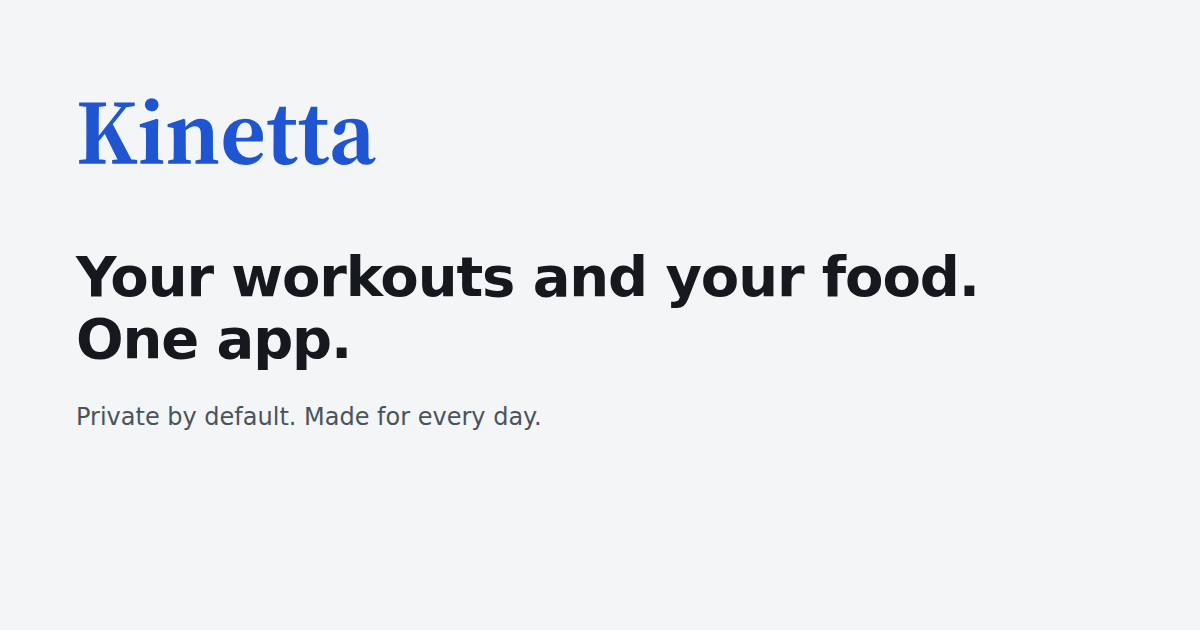
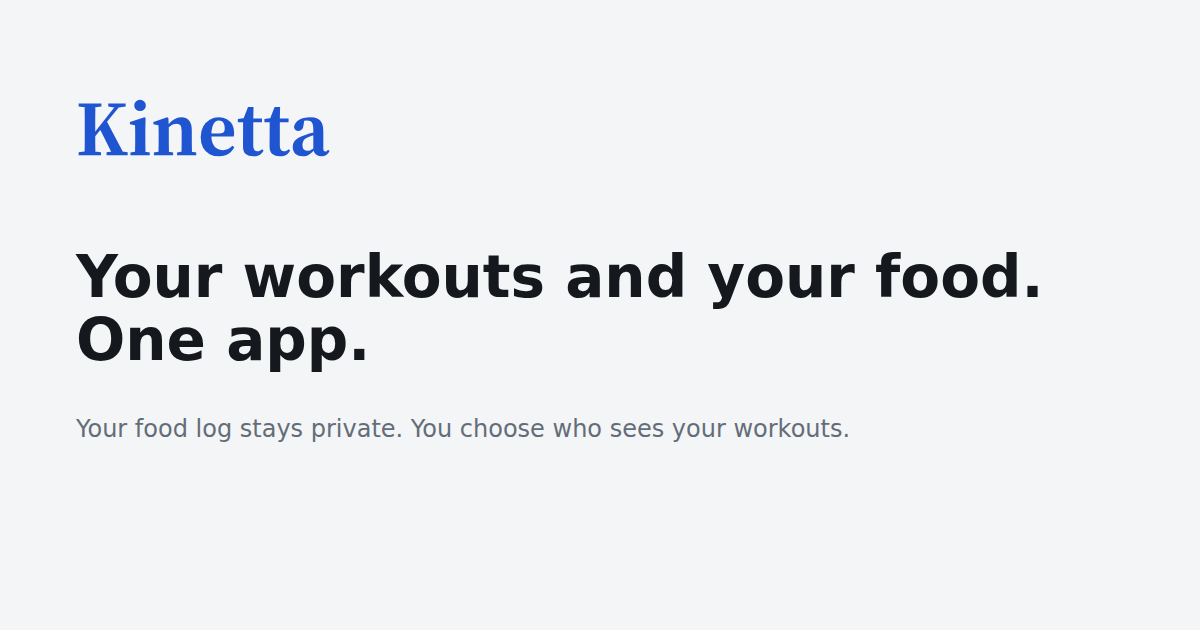
Website: Garmin Connect open to everyone; drop "Private by default" (#240)
Garmin Connect is now offered to every account, so Training no longer
says it is coming soon. New accounts share activities with everyone on
Kinetta by default, so the link-preview image and the Friends page say
the food log stays private and you choose who sees workouts instead.
Link-preview image version bumped to v5.

diff --git a/site/training.html b/site/training.html
@@ -10,7 +10,7 @@
 <meta property="og:type" content="website">
 <meta property="og:site_name" content="Kinetta">
 <meta property="og:url" content="https://kinetta.app/training">
-<meta property="og:image" content="https://kinetta.app/assets/og.png?v=4">
+<meta property="og:image" content="https://kinetta.app/assets/og.png?v=5">
 <meta property="og:image:type" content="image/png">
 <meta property="og:image:width" content="1200">
 <meta property="og:image:height" content="630">
@@ -61,12 +61,12 @@
       <div class="steps compact">
         <div class="step"><h3>Apple Health on iPhone</h3><p>In the Kinetta iPhone app, workouts sync from Apple Health, including Apple Watch routes. The app is in TestFlight beta for invited testers.</p></div>
         <div class="step"><h3>Watch files and Strava history</h3><p>Upload FIT, GPX or TCX files, or your whole Strava export.</p></div>
-        <div class="step"><h3>Connected sources</h3><p>Health Auto Export brings in new workouts automatically. Garmin Connect is coming soon.</p></div>
+        <div class="step"><h3>Connected sources</h3><p>Garmin Connect or Health Auto Export bring in new workouts automatically.</p></div>
       </div>
       <div class="works" aria-labelledby="works-h">
         <h3 id="works-h">Works with the watch you already wear.</h3>
         <p class="works-list">Apple Watch, Apple Health, Garmin Connect, Health Auto Export, Strava exports, and FIT, GPX or TCX files from almost any watch or bike computer.</p>
-        <p><strong>Garmin Connect</strong> brings each new run or ride in with its map and heart rate shortly after your watch syncs. For older history, import a Strava export or past workouts from Apple Health. Garmin Connect is being tested now and opens to everyone in the beta soon; until then, Garmin workouts come in through Apple Health or your watch files.</p>
+        <p><strong>Garmin Connect</strong> brings each new run or ride in with its map and heart rate shortly after your watch syncs. For older history, import a Strava export or past workouts from Apple Health.</p>
         <p class="marks">Apple Watch and Apple Health are trademarks of Apple Inc. Garmin and Garmin Connect are trademarks of Garmin Ltd. or its subsidiaries.</p>
       </div>
     </div>

diff --git a/site/friends.html b/site/friends.html
@@ -10,7 +10,7 @@
 <meta property="og:type" content="website">
 <meta property="og:site_name" content="Kinetta">
 <meta property="og:url" content="https://kinetta.app/friends">
-<meta property="og:image" content="https://kinetta.app/assets/og.png?v=4">
+<meta property="og:image" content="https://kinetta.app/assets/og.png?v=5">
 <meta property="og:image:type" content="image/png">
 <meta property="og:image:width" content="1200">
 <meta property="og:image:height" content="630">
@@ -63,7 +63,7 @@
           <h2 id="fr-h" class="spot-h">Your workouts and theirs, in one feed.</h2>
           <p>Runs, rides, walks and other shared activities, newest first. New accounts share new activities with everyone on Kinetta by default. Choose approved friends or Only me during signup or in Sharing. Existing accounts and activities keep their saved choices.</p>
           <ul>
-            <li><svg aria-hidden="true"><use href="#oval"/></svg><span><b>Private by default</b>: you choose what to share</span></li>
+            <li><svg aria-hidden="true"><use href="#oval"/></svg><span><b>You choose what to share</b>: your food log always stays private</span></li>
             <li><svg aria-hidden="true"><use href="#oval"/></svg><span><b>Trim your route</b>: shared maps leave out the start and end</span></li>
             <li><svg aria-hidden="true"><use href="#oval"/></svg><span><b>You pick the details</b>: pace, heart rate, calories</span></li>
             <li><svg aria-hidden="true"><use href="#oval"/></svg><span><b>Photos</b>: shown to whoever can see that activity</span></li>

diff --git a/site/templates/friends.html b/site/templates/friends.html
@@ -10,7 +10,7 @@
 <meta property="og:type" content="website">
 <meta property="og:site_name" content="Kinetta">
 <meta property="og:url" content="https://kinetta.app/friends">
-<meta property="og:image" content="https://kinetta.app/assets/og.png?v=4">
+<meta property="og:image" content="https://kinetta.app/assets/og.png?v=5">
 <meta property="og:image:type" content="image/png">
 <meta property="og:image:width" content="1200">
 <meta property="og:image:height" content="630">
@@ -63,7 +63,7 @@
           <h2 id="fr-h" class="spot-h">{{copy:see-who-s-out-there-today-3}}</h2>
           <p>{{copy:your-runs-and-theirs-newest-first-4}}</p>
           <ul>
-            <li><svg aria-hidden="true"><use href="#oval"/></svg><span><b>Private by default</b>: you choose what to share</span></li>
+            <li><svg aria-hidden="true"><use href="#oval"/></svg><span><b>You choose what to share</b>: your food log always stays private</span></li>
             <li><svg aria-hidden="true"><use href="#oval"/></svg><span><b>Trim your route</b>: shared maps leave out the start and end</span></li>
             <li><svg aria-hidden="true"><use href="#oval"/></svg><span><b>You pick the details</b>: pace, heart rate, calories</span></li>
             <li><svg aria-hidden="true"><use href="#oval"/></svg><span><b>Photos</b>: shown to whoever can see that activity</span></li>

diff --git a/site/templates/training.html b/site/templates/training.html
@@ -10,7 +10,7 @@
 <meta property="og:type" content="website">
 <meta property="og:site_name" content="Kinetta">
 <meta property="og:url" content="https://kinetta.app/training">
-<meta property="og:image" content="https://kinetta.app/assets/og.png?v=4">
+<meta property="og:image" content="https://kinetta.app/assets/og.png?v=5">
 <meta property="og:image:type" content="image/png">
 <meta property="og:image:width" content="1200">
 <meta property="og:image:height" content="630">

diff --git a/site/compare.html b/site/compare.html
@@ -10,7 +10,7 @@
 <meta property="og:type" content="website">
 <meta property="og:site_name" content="Kinetta">
 <meta property="og:url" content="https://kinetta.app/compare">
-<meta property="og:image" content="https://kinetta.app/assets/og.png?v=4">
+<meta property="og:image" content="https://kinetta.app/assets/og.png?v=5">
 <meta property="og:image:type" content="image/png">
 <meta property="og:image:width" content="1200">
 <meta property="og:image:height" content="630">

diff --git a/site/templates/compare.html b/site/templates/compare.html
@@ -10,7 +10,7 @@
 <meta property="og:type" content="website">
 <meta property="og:site_name" content="Kinetta">
 <meta property="og:url" content="https://kinetta.app/compare">
-<meta property="og:image" content="https://kinetta.app/assets/og.png?v=4">
+<meta property="og:image" content="https://kinetta.app/assets/og.png?v=5">
 <meta property="og:image:type" content="image/png">
 <meta property="og:image:width" content="1200">
 <meta property="og:image:height" content="630">

diff --git a/site/guide.html b/site/guide.html
@@ -10,7 +10,7 @@
 <meta property="og:type" content="website">
 <meta property="og:site_name" content="Kinetta">
 <meta property="og:url" content="https://kinetta.app/guide">
-<meta property="og:image" content="https://kinetta.app/assets/og.png?v=4">
+<meta property="og:image" content="https://kinetta.app/assets/og.png?v=5">
 <meta property="og:image:type" content="image/png">
 <meta property="og:image:width" content="1200">
 <meta property="og:image:height" content="630">

diff --git a/site/templates/guide.html b/site/templates/guide.html
@@ -10,7 +10,7 @@
 <meta property="og:type" content="website">
 <meta property="og:site_name" content="Kinetta">
 <meta property="og:url" content="https://kinetta.app/guide">
-<meta property="og:image" content="https://kinetta.app/assets/og.png?v=4">
+<meta property="og:image" content="https://kinetta.app/assets/og.png?v=5">
 <meta property="og:image:type" content="image/png">
 <meta property="og:image:width" content="1200">
 <meta property="og:image:height" content="630">

diff --git a/site/food.html b/site/food.html
@@ -10,7 +10,7 @@
 <meta property="og:type" content="website">
 <meta property="og:site_name" content="Kinetta">
 <meta property="og:url" content="https://kinetta.app/food">
-<meta property="og:image" content="https://kinetta.app/assets/og.png?v=4">
+<meta property="og:image" content="https://kinetta.app/assets/og.png?v=5">
 <meta property="og:image:type" content="image/png">
 <meta property="og:image:width" content="1200">
 <meta property="og:image:height" content="630">

diff --git a/site/templates/food.html b/site/templates/food.html
@@ -10,7 +10,7 @@
 <meta property="og:type" content="website">
 <meta property="og:site_name" content="Kinetta">
 <meta property="og:url" content="https://kinetta.app/food">
-<meta property="og:image" content="https://kinetta.app/assets/og.png?v=4">
+<meta property="og:image" content="https://kinetta.app/assets/og.png?v=5">
 <meta property="og:image:type" content="image/png">
 <meta property="og:image:width" content="1200">
 <meta property="og:image:height" content="630">

diff --git a/site/index.html b/site/index.html
@@ -10,7 +10,7 @@
 <meta property="og:type" content="website">
 <meta property="og:site_name" content="Kinetta">
 <meta property="og:url" content="https://kinetta.app/">
-<meta property="og:image" content="https://kinetta.app/assets/og.png?v=4">
+<meta property="og:image" content="https://kinetta.app/assets/og.png?v=5">
 <meta property="og:image:type" content="image/png">
 <meta property="og:image:width" content="1200">
 <meta property="og:image:height" content="630">

diff --git a/site/templates/index.html b/site/templates/index.html
@@ -10,7 +10,7 @@
 <meta property="og:type" content="website">
 <meta property="og:site_name" content="Kinetta">
 <meta property="og:url" content="https://kinetta.app/">
-<meta property="og:image" content="https://kinetta.app/assets/og.png?v=4">
+<meta property="og:image" content="https://kinetta.app/assets/og.png?v=5">
 <meta property="og:image:type" content="image/png">
 <meta property="og:image:width" content="1200">
 <meta property="og:image:height" content="630">
